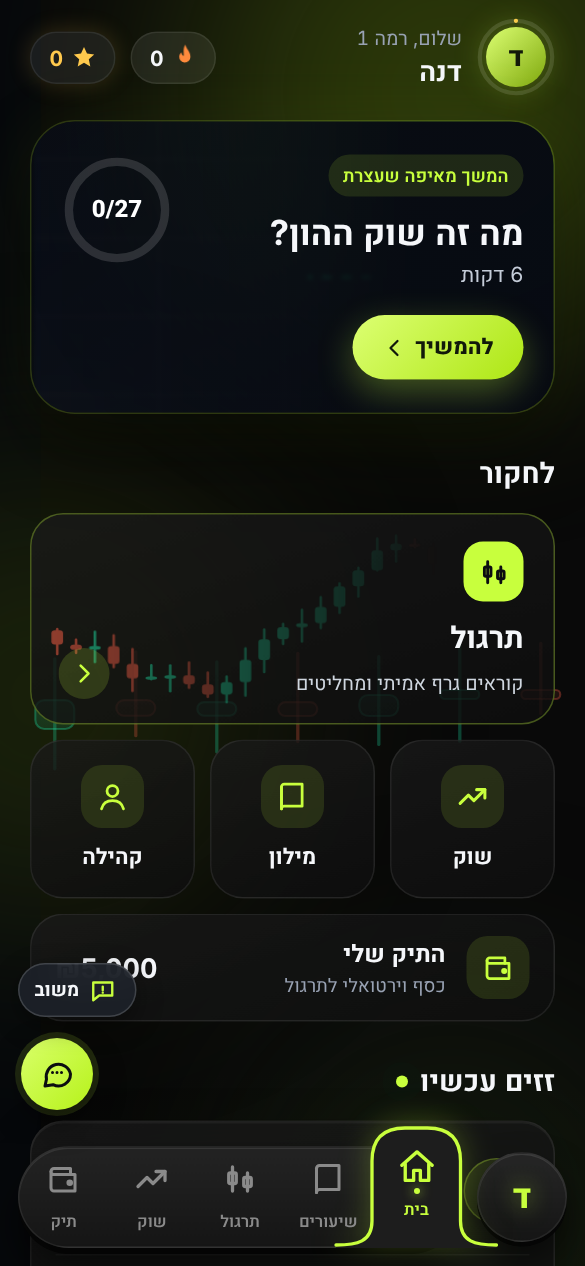
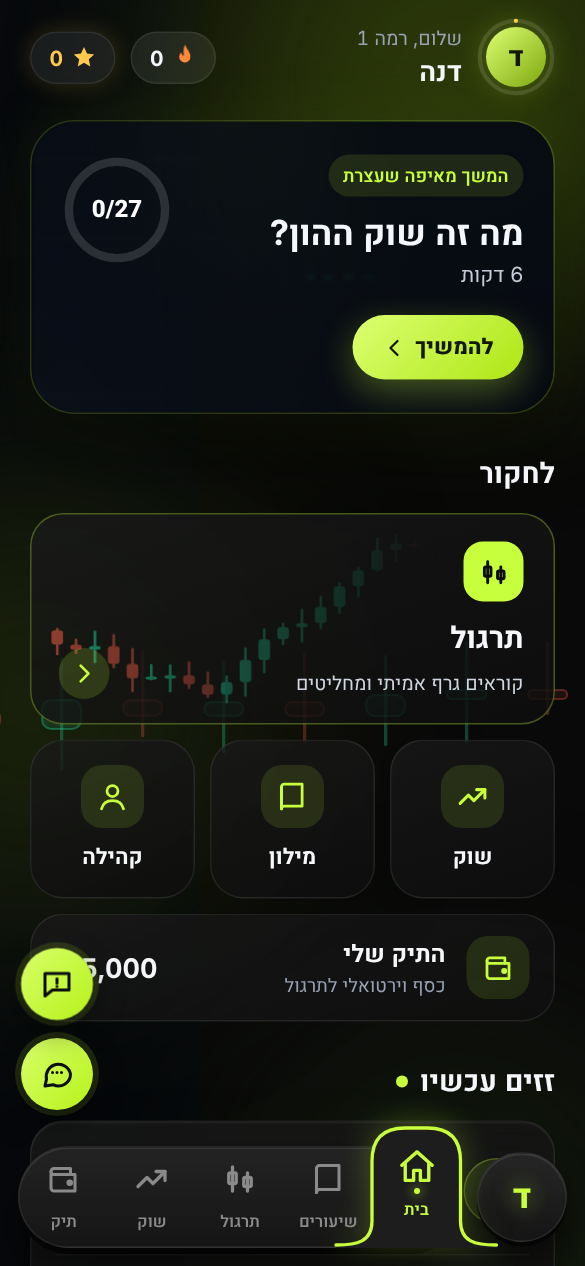
Feedback button styled like the helper button; WhatsApp send copies the text and shows a fallback when WhatsApp is blocked
Claude-Session: https://claude.ai/code/session_011m9Yf8x73arYD9GUop3Civ

diff --git a/capital-market-app/review/app.html b/capital-market-app/review/app.html
@@ -1117,6 +1117,11 @@ details.more p{font-size:13.5px;line-height:1.65;color:var(--muted);margin:8px 0
 .fbfab svg{color:var(--lime)}.fbfab:active{transform:scale(.94)}
 .with-tabs .fbfab{bottom:166px}
 
+/* feedback button now looks like the helper button below it */
+.fbfab{width:48px;height:48px;padding:0;justify-content:center;border-radius:50%;color:#0b0d10;background:linear-gradient(135deg,#d9ff6a,#b6f21a);border:0;box-shadow:0 8px 22px rgba(0,0,0,.45),0 0 0 4px rgba(200,255,61,.14);left:14px}
+.fbfab span{display:none}.fbfab svg{width:24px;height:24px;color:#0b0d10}
+.with-tabs .fbfab{bottom:164px}
+
 body{background:#0b0d10}
 @media (min-width:481px){body{background:#d9dde3}}
 </style>
@@ -4736,7 +4741,14 @@ function openFeedback() {
   $('#fbc').onclick = () => copy(cur_());
   $('#fbs').onclick = async () => {
     const t = cur_(); if (f.rate === 0 && !f.msg) return toast('דרגו או כתבו משהו קודם');
-    if (FEEDBACK_WHATSAPP) { window.open(`https://wa.me/${FEEDBACK_WHATSAPP}?text=${encodeURIComponent(t)}`, '_blank', 'noopener'); return; }
+    if (FEEDBACK_WHATSAPP) {
+      /* some viewers (for example a preview inside another page) block WhatsApp, so the text is also copied and shown as a fallback */
+      const url = `https://wa.me/${FEEDBACK_WHATSAPP}?text=${encodeURIComponent(t)}`, local = '0' + FEEDBACK_WHATSAPP.replace(/^972/, '');
+      try { await navigator.clipboard.writeText(t); } catch (e) { }
+      try { window.open(url, '_blank', 'noopener'); } catch (e) { }
+      $('#fbx').innerHTML = `<p class="muted" style="font-size:13px;line-height:1.6">פותחים את וואטסאפ. אם הוא לא נפתח, ההודעה כבר הועתקה: הדביקו אותה בשיחה עם ${local}.</p><a class="btn ghost" target="_blank" rel="noopener noreferrer" href="${url}">לנסות שוב לפתוח את וואטסאפ</a>`;
+      return;
+    }
     if (navigator.share) { try { await navigator.share({ title: 'משוב על האפליקציה', text: t }); return; } catch (e) { if (e && e.name === 'AbortError') return; } }
     const x = $('#fbx'), enc = encodeURIComponent(t); let h = '';
     if (FEEDBACK_WHATSAPP) h += `<a class="btn ghost" target="_blank" rel="noopener" href="https://wa.me/${FEEDBACK_WHATSAPP}?text=${enc}">שליחה בוואטסאפ</a>`;

diff --git a/capital-market-app/prototype/js/feedback.js b/capital-market-app/prototype/js/feedback.js
@@ -29,7 +29,14 @@ function openFeedback() {
   $('#fbc').onclick = () => copy(cur_());
   $('#fbs').onclick = async () => {
     const t = cur_(); if (f.rate === 0 && !f.msg) return toast('דרגו או כתבו משהו קודם');
-    if (FEEDBACK_WHATSAPP) { window.open(`https://wa.me/${FEEDBACK_WHATSAPP}?text=${encodeURIComponent(t)}`, '_blank', 'noopener'); return; }
+    if (FEEDBACK_WHATSAPP) {
+      /* some viewers (for example a preview inside another page) block WhatsApp, so the text is also copied and shown as a fallback */
+      const url = `https://wa.me/${FEEDBACK_WHATSAPP}?text=${encodeURIComponent(t)}`, local = '0' + FEEDBACK_WHATSAPP.replace(/^972/, '');
+      try { await navigator.clipboard.writeText(t); } catch (e) { }
+      try { window.open(url, '_blank', 'noopener'); } catch (e) { }
+      $('#fbx').innerHTML = `<p class="muted" style="font-size:13px;line-height:1.6">פותחים את וואטסאפ. אם הוא לא נפתח, ההודעה כבר הועתקה: הדביקו אותה בשיחה עם ${local}.</p><a class="btn ghost" target="_blank" rel="noopener noreferrer" href="${url}">לנסות שוב לפתוח את וואטסאפ</a>`;
+      return;
+    }
     if (navigator.share) { try { await navigator.share({ title: 'משוב על האפליקציה', text: t }); return; } catch (e) { if (e && e.name === 'AbortError') return; } }
     const x = $('#fbx'), enc = encodeURIComponent(t); let h = '';
     if (FEEDBACK_WHATSAPP) h += `<a class="btn ghost" target="_blank" rel="noopener" href="https://wa.me/${FEEDBACK_WHATSAPP}?text=${enc}">שליחה בוואטסאפ</a>`;

diff --git a/capital-market-app/prototype/style.css b/capital-market-app/prototype/style.css
@@ -1109,3 +1109,8 @@ details.more p{font-size:13.5px;line-height:1.65;color:var(--muted);margin:8px 0
 .fbfab{position:absolute;left:12px;bottom:92px;z-index:22;display:flex;align-items:center;gap:6px;height:36px;padding:0 12px 0 10px;border-radius:999px;font-size:12.5px;font-weight:700;color:var(--text);background:rgba(28,33,40,.92);border:1px solid rgba(255,255,255,.16);-webkit-backdrop-filter:blur(10px);backdrop-filter:blur(10px);box-shadow:0 6px 18px rgba(0,0,0,.4);transition:transform .15s}
 .fbfab svg{color:var(--lime)}.fbfab:active{transform:scale(.94)}
 .with-tabs .fbfab{bottom:166px}
+
+/* feedback button now looks like the helper button below it */
+.fbfab{width:48px;height:48px;padding:0;justify-content:center;border-radius:50%;color:#0b0d10;background:linear-gradient(135deg,#d9ff6a,#b6f21a);border:0;box-shadow:0 8px 22px rgba(0,0,0,.45),0 0 0 4px rgba(200,255,61,.14);left:14px}
+.fbfab span{display:none}.fbfab svg{width:24px;height:24px;color:#0b0d10}
+.with-tabs .fbfab{bottom:164px}
